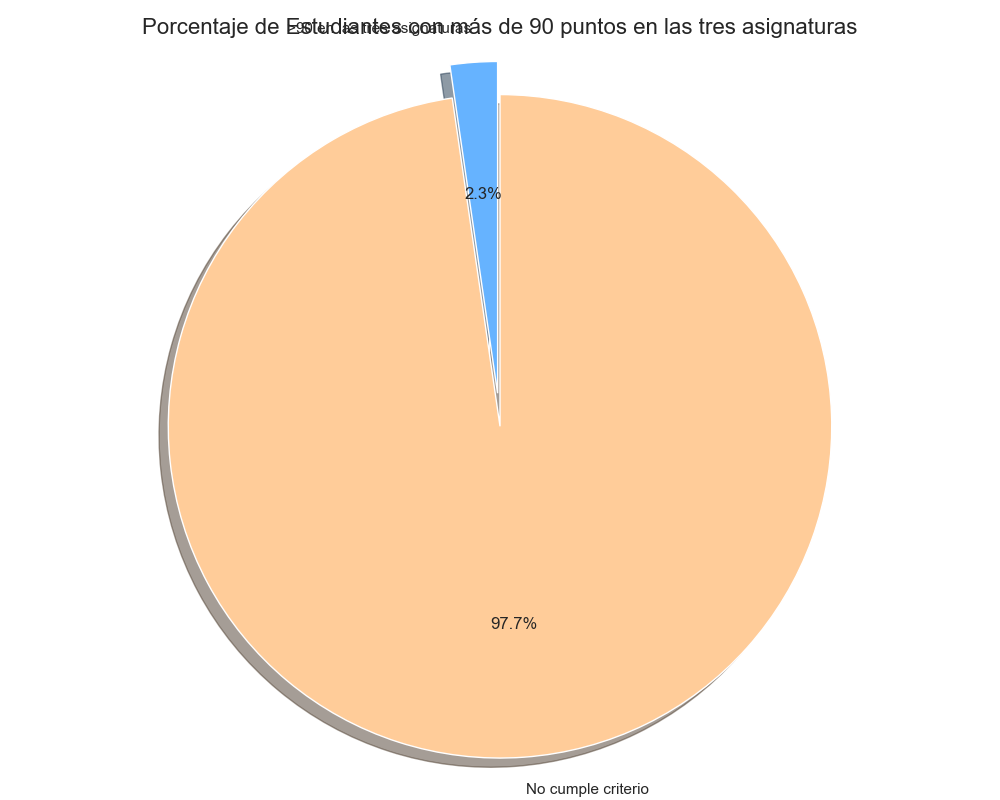
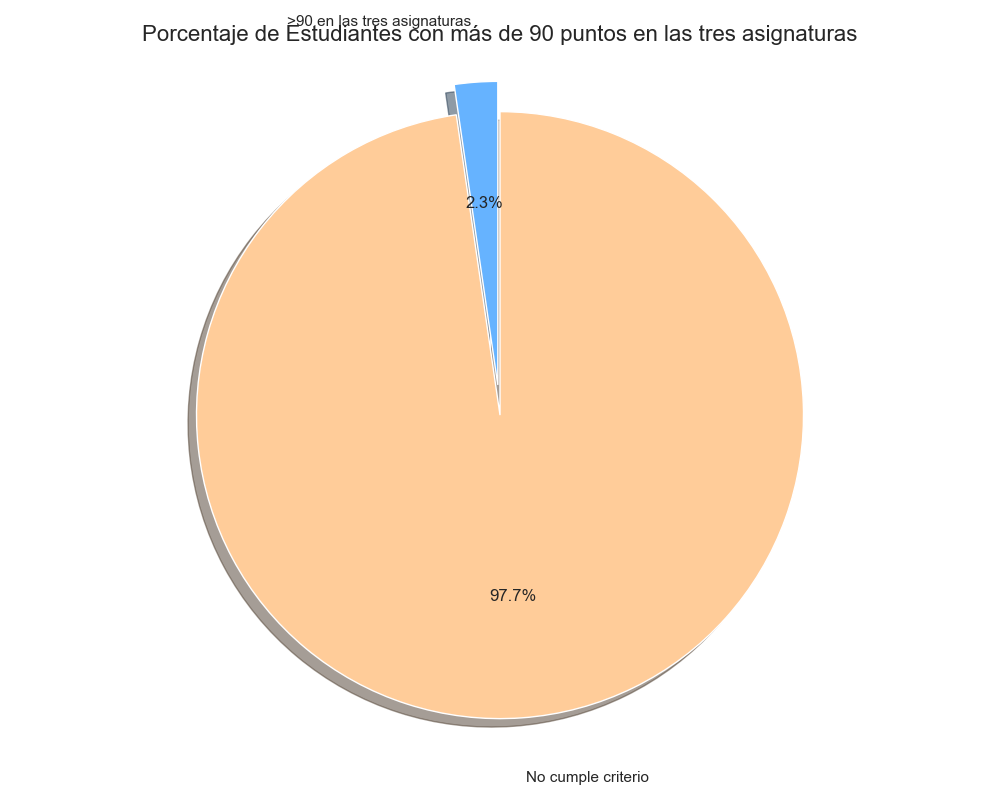
Arreglos bug Analisis

diff --git a/core/DataAnalysis.py b/core/DataAnalysis.py
@@ -137,6 +137,15 @@ class DataAnalysis:
         self.dist_conjunta.generar_graficos()
     
     # Resumen de hallazgos del analisis    
-    def resumen_hallazgos(self, gender_scores, prep_scores, education_scores, correlation_matrix):
-        self.operar.calcular_promedio()
+    #def resumen_hallazgos(self, gender_scores, prep_scores, education_scores, correlation_matrix):
+        #self.operar.calcular_promedio()
+        #self.analisis_final.mostrar_resumen(gender_scores, prep_scores, education_scores, correlation_matrix)
+
+    def resumen_hallazgos(self):
+        self.df = self.operar.calcular_promedio()
+        gender_scores = self.operar.obtener_gender_scores()
+        prep_scores = self.operar.obtener_prep_scores()
+        education_scores = self.operar.obtener_education_scores()
+        correlation_matrix = self.operar.obtener_matriz_correlacion()
+
         self.analisis_final.mostrar_resumen(gender_scores, prep_scores, education_scores, correlation_matrix)

diff --git a/core/AnalisisCalificacion.py b/core/AnalisisCalificacion.py
@@ -1,7 +1,7 @@
 # librarias
 import core.utils as ut
 
-class AnalisisCalificacion:
+class  AnalisisCalificacion:
     def __init__(self, df=None):
         self.df = df
 
@@ -34,7 +34,8 @@ class AnalisisCalificacion:
             colors=colors,
             autopct='%1.1f%%',
             startangle=90,
-            shadow=True
+            shadow=True,
+            labeldistance=1.2 
         )
         ut.plt.axis('equal')
         ut.plt.title('Porcentaje de Estudiantes con más de 90 puntos en las tres asignaturas', fontsize=16)
